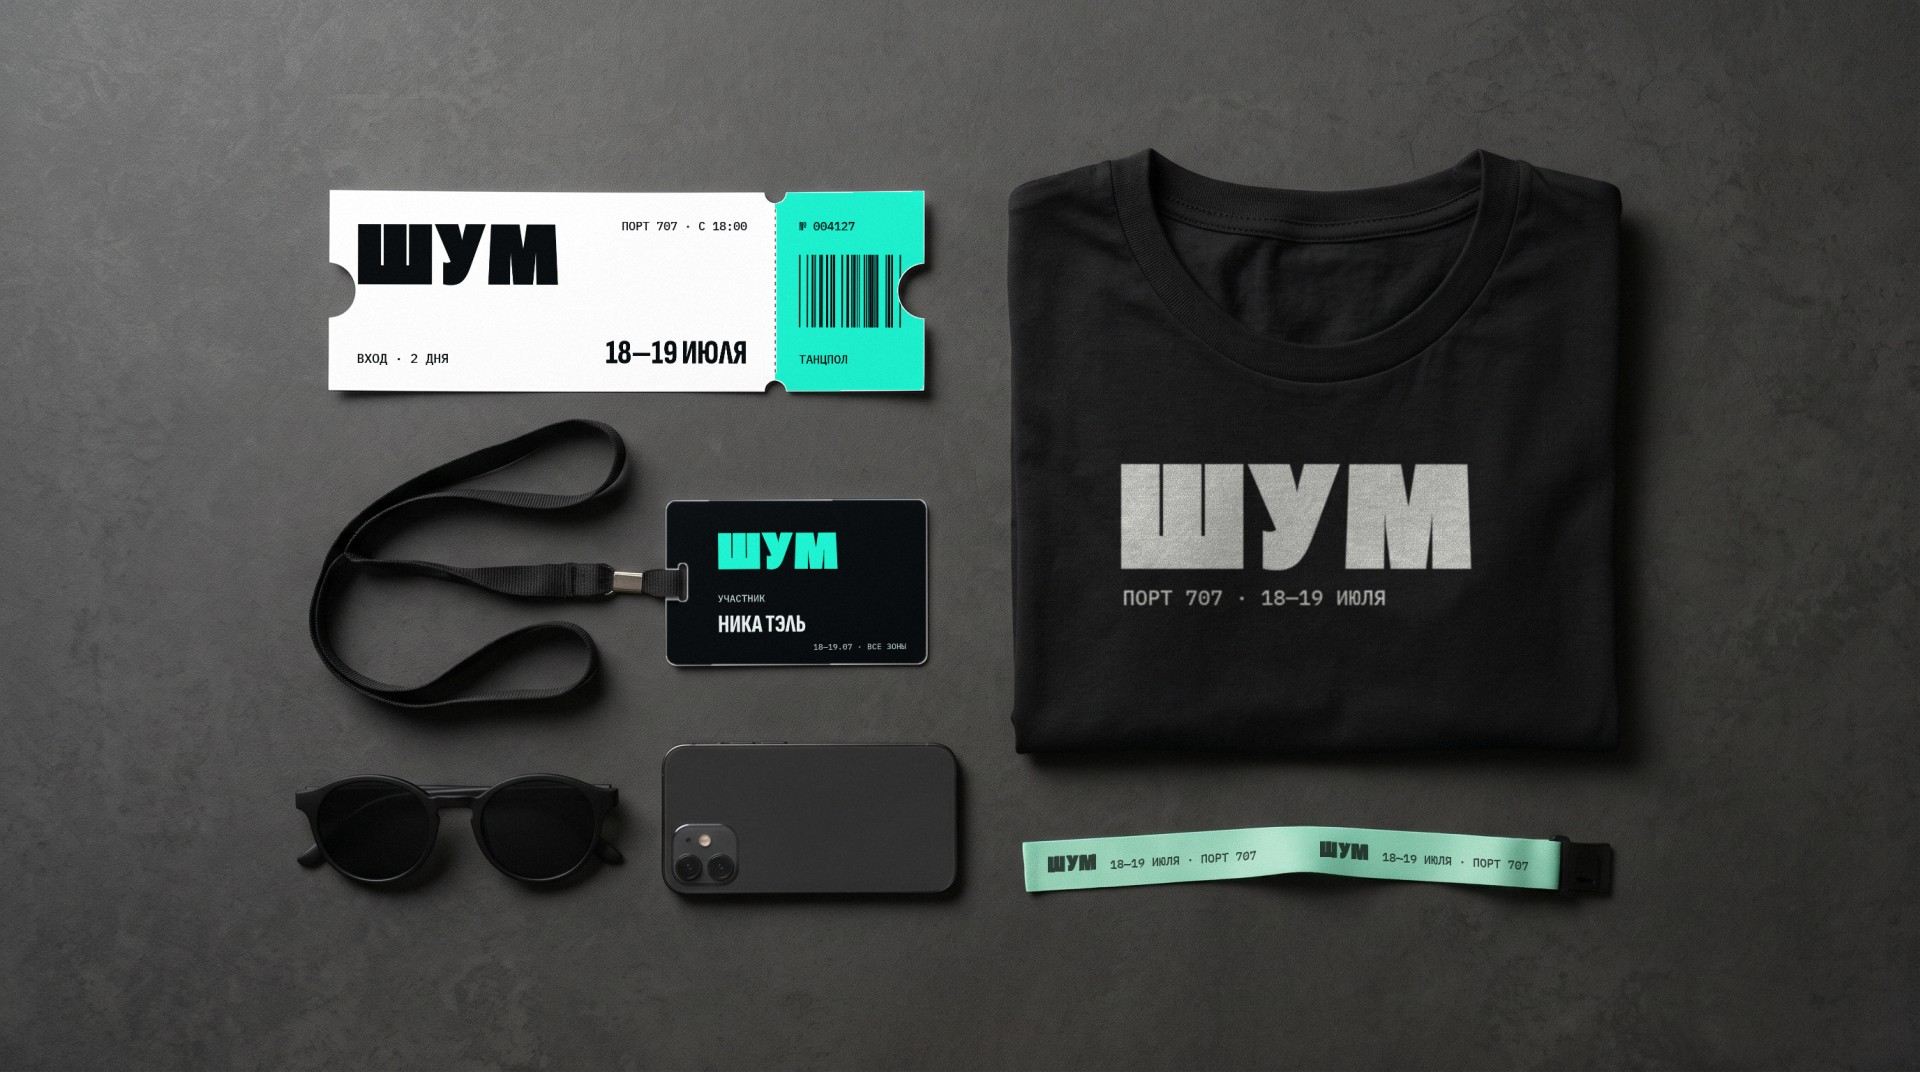
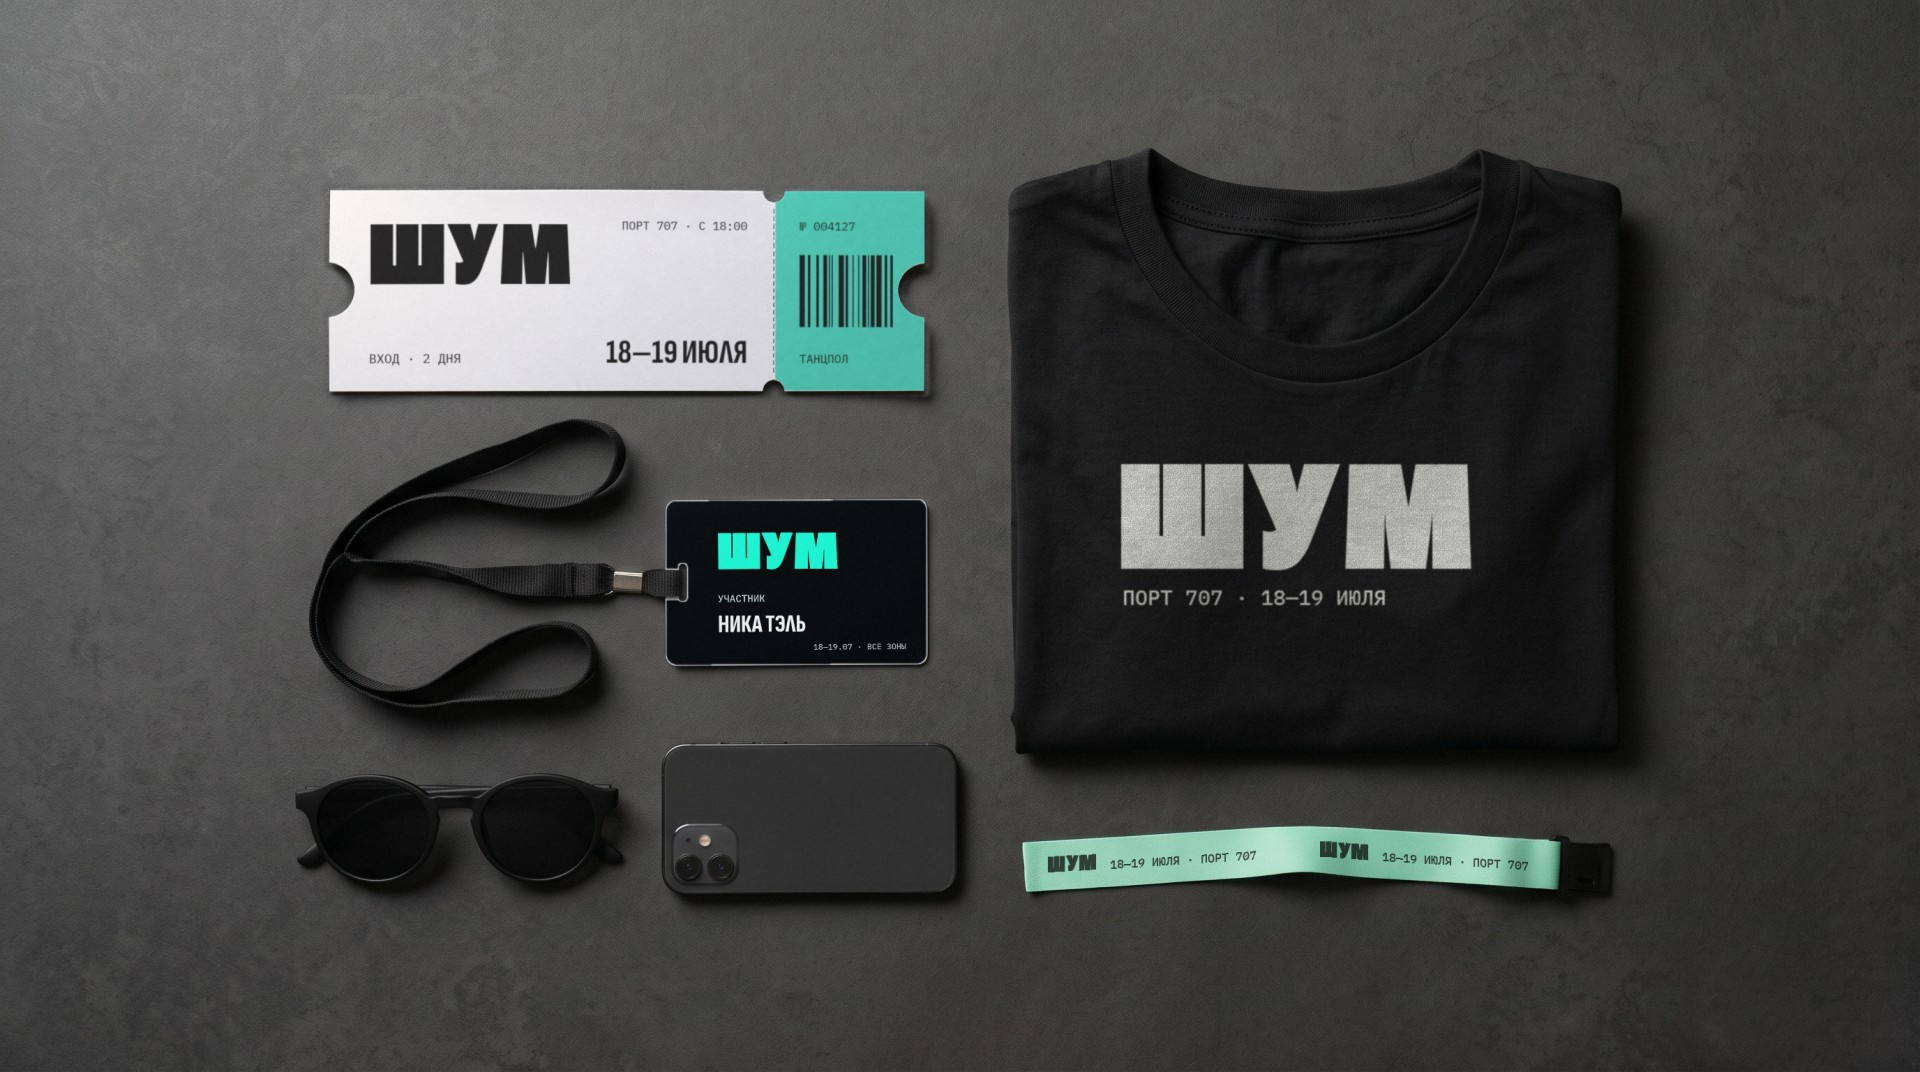
«Шум»: билет в кадре с мерчем как настоящая фотография
Новая картонная основа (изгиб, срез, тень, пробитая перфорация),
печать по изгибу листа в линейном свете, печатный циан на корешке.

Changed region(s): [[0.1562, 0.1539, 0.5, 0.3694]]

diff --git a/data.js b/data.js
@@ -285,7 +285,7 @@ window.WORKS = [
       phone: { video: "works/shum-motion/phone.mp4?v=8", poster: "works/shum-motion/phone-poster.jpg?v=8", w: 1080, h: 1446, title: "Рилс «Шума» в телефоне у гостя фестиваля" },
       city: { video: "works/shum-motion/busstop.mp4?v=8", poster: "works/shum-motion/busstop-poster.jpg?v=8", w: 1920, h: 1072, title: "Город на одной частоте.", description: "Цифровой лайтбокс на&nbsp;остановке играет живым шрифтом, а&nbsp;расклейка держит тот&nbsp;же ритм на&nbsp;бетоне.", caption: "Остановка ночью · петля 8 секунд" },
       wall: { src: "works/shum-motion/wall.jpg?v=9", alt: "Шесть афиш «Шума» расклеены на бетонной стене: даты, участники и слоган", caption: "Расклейка в промзоне · три афиши серии" },
-      merch: { src: "works/shum-motion/merch.jpg?v=8", title: "В руках у гостей.", description: "Билет, бейдж, браслет и&nbsp;футболка собраны из&nbsp;того&nbsp;же знака и&nbsp;той&nbsp;же палитры.", alt: "Билет, бейдж участника, браслет и футболка с знаком «Шум» на тёмном бетоне", caption: "Билет, бейдж, браслет, футболка" }
+      merch: { src: "works/shum-motion/merch.jpg?v=10", title: "В руках у гостей.", description: "Билет, бейдж, браслет и&nbsp;футболка собраны из&nbsp;того&nbsp;же знака и&nbsp;той&nbsp;же палитры.", alt: "Билет, бейдж участника, браслет и футболка с знаком «Шум» на тёмном бетоне", caption: "Билет, бейдж, браслет, футболка" }
     },
     gallery: [
       { src: "works/shum-motion/01-system.jpg?v=8", title: "Один знак — четыре режима", alt: "Знак «Шум» в четырёх режимах: хром, свет внутри, живой шрифт и изгиб. Ширина букв, ритм, шрифты и палитра" },
